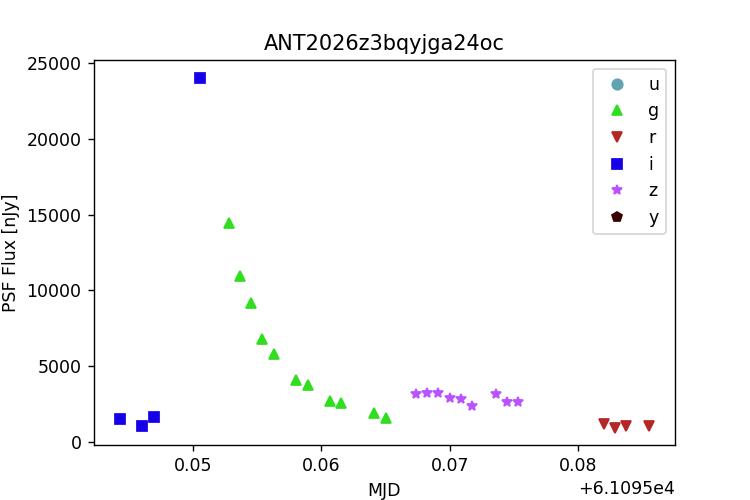
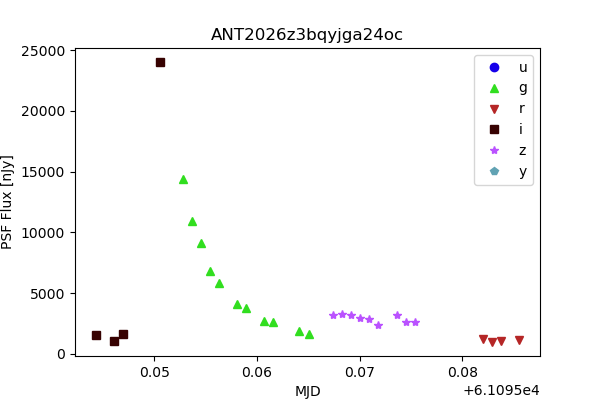
Remove lsst.utils dependency

diff --git a/docs/tutorials/alert_access.rst b/docs/tutorials/alert_access.rst
@@ -4,8 +4,8 @@
 Accessing alerts via the Antares client
 #######################################
 
-The contents of an alert locus can be accessed via the various brokers' API clients.
-This brief tutorial shows how to access an alert locus using the `Antares <https://antares.noirlab.edu/>`_ client and `Devkit <https://nsf-noirlab.gitlab.io/csdc/antares/devkit/>`_.
+The alerts and additional properties about an object can be accessed via the various brokers' API clients.
+This brief tutorial shows how to access alerts using the `Antares <https://antares.noirlab.edu/>`_ client and `Devkit <https://nsf-noirlab.gitlab.io/csdc/antares/devkit/>`_.
 Other alert brokers have their own clients; consult their websites for documentation.
 
 All of the following can be executed within a notebook in the RSP, or from a python prompt (or notebook) on your local computer.
@@ -24,6 +24,8 @@ Use ``pip`` to install the client and devkit by running the following on the com
 Retrieve an alert locus
 =======================
 
+Antares groups alerts and additional properties at a given position on the sky (i.e., associated with a particular astrophysical object) into an object called a "locus."
+Each locus is given a unique ID in Antares.
 The following snippet will retrieve the locus for a known Antares ID.
 The locus is returned as a Python dict; the last line of this snippet prints the available dict keys.
 The lightcurve example below illustrates accessing the "alerts" entries in the dict; other items can be extracted in a similar way.
@@ -50,12 +52,10 @@ When plotting lightcurves, one should multiply fluxes with the "isNegative" flag
 
     import matplotlib.pyplot as plt
     import numpy as np
-    from lsst.utils.plotting import (get_multiband_plot_colors,
-                                     get_multiband_plot_symbols)
 
-    filter_colors = get_multiband_plot_colors()
+    filter_colors = {'u': '#1600EA', 'g': '#31DE1F', 'r': '#B52626', 'i': '#370201', 'z': '#BA52FF', 'y': '#61A2B3'}
     filter_names = list(filter_colors.keys())
-    filter_symbols = get_multiband_plot_symbols()
+    filter_symbols = {'u': 'o', 'g': '^', 'r': 'v', 'i': 's', 'z': '*', 'y': 'p'}
 
     temp_mjd = []
     temp_band = []
@@ -75,9 +75,9 @@ When plotting lightcurves, one should multiply fluxes with the "isNegative" flag
     flux = np.asarray(temp_flux, dtype='float')
 
     fig = plt.figure(figsize=(6, 4))
-        for f, filt in enumerate(filter_names):
-            fx = np.where(band == filt)[0]
-            plt.plot(mjd[fx], flux[fx], filter_symbols[filt], color=filter_colors[filt], label=filt)
+    for f, filt in enumerate(filter_names):
+        fx = np.where(band == filt)[0]
+        plt.plot(mjd[fx], flux[fx], filter_symbols[filt], color=filter_colors[filt], label=filt)
     plt.xlabel('MJD')
     plt.ylabel('PSF Flux [nJy]')
     plt.legend(loc='upper right')
